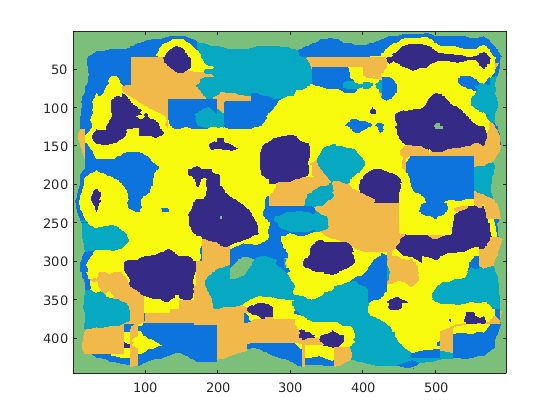
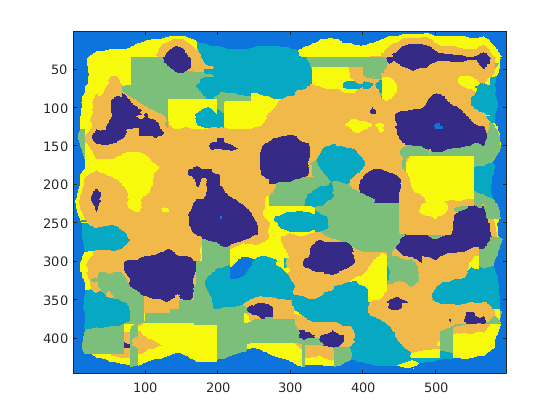
progress

diff --git a/segmentMain.m b/segmentMain.m
@@ -77,3 +77,14 @@ figure;
 imagesc(textureSmallWin); print('images/gumballs_small.png', '-dpng', '-r0');
 imagesc(textureLargeWin); print('images/gumballs_large.png', '-dpng', '-r0');
 disp('done.')
+
+disp('Comparing different sets of filters...')
+F2 = F(:, :, 1:18); % only use the first 18 filters (thin edge detectors).
+T2 = createTextons(S, F2, k);
+[~, textureFullset] = compareSegmentations(L, F, T, 35, 6, 6);
+[~, textureSubset] = compareSegmentations(L, F2, T2, 35, 6, 6);
+figure;
+imagesc(textureFullset); print('images/car_fullset.png', '-dpng', '-r0');
+imagesc(textureSubset); print('images/car_subset.png', '-dpng', '-r0');
+disp('done.')
+
